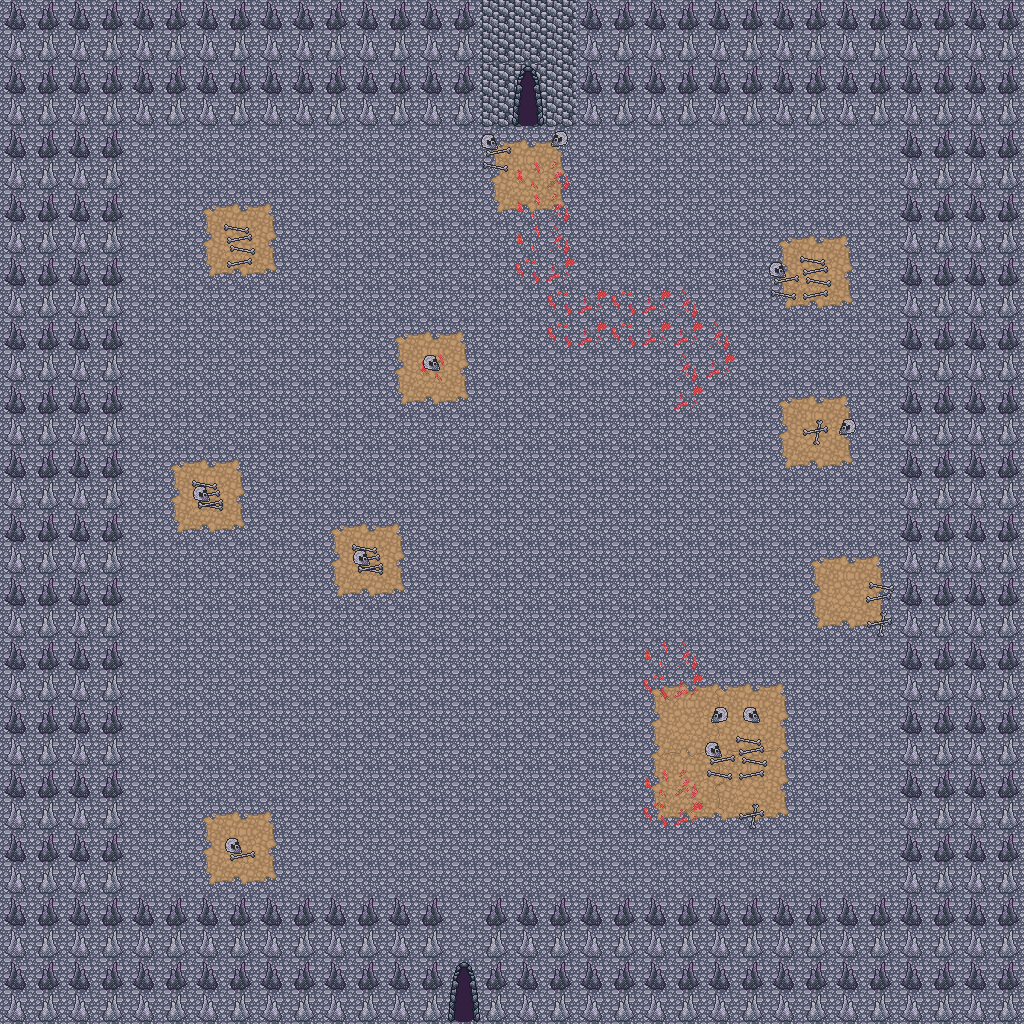
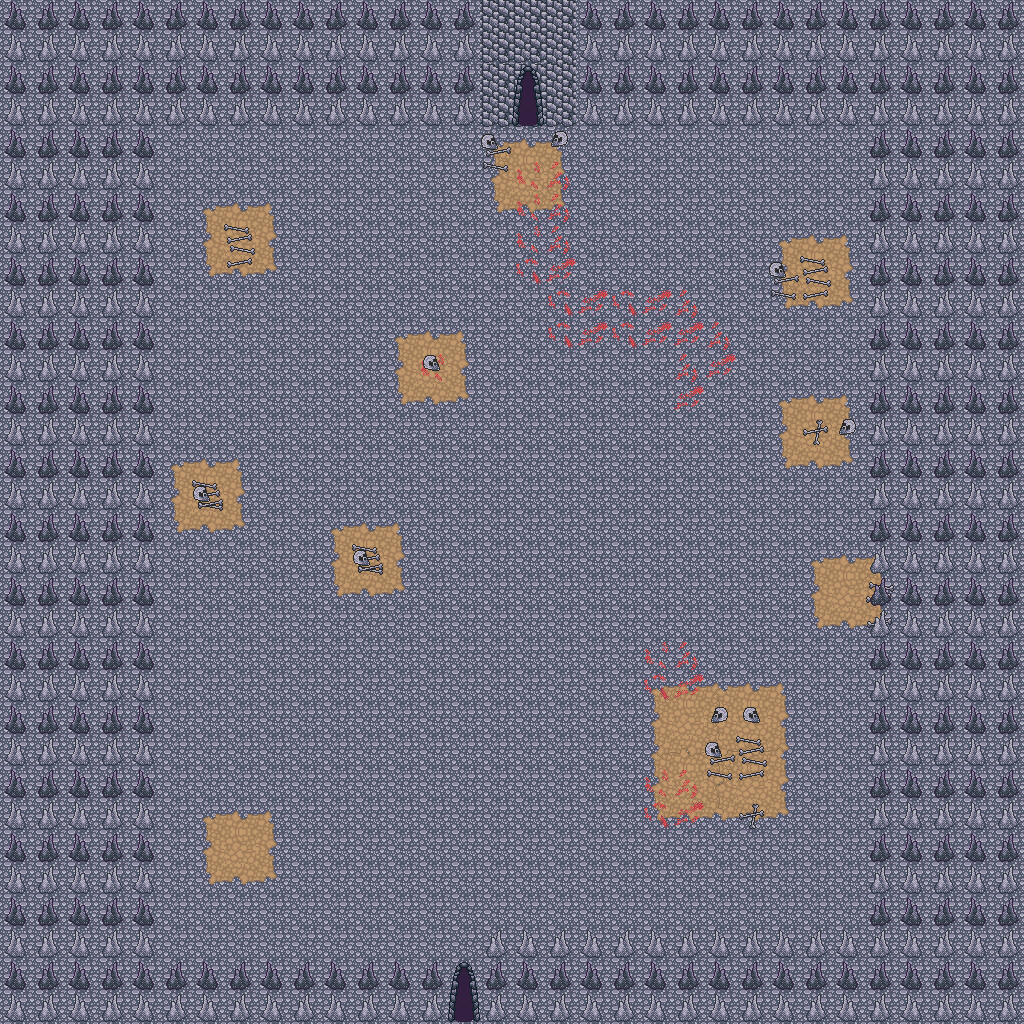
add 2nd exit to cave which results endgame

diff --git a/src/main.cpp b/src/main.cpp
@@ -141,6 +141,7 @@ int main()
 	bool isInCave{};
 	bool isOutsideCave{};
 	bool hasFlashlight{};
+	bool isEndGame{};
 	// used to spawn the monster at some point
 	bool isMonsterOut{};
 	// Positions of the buildings where player can enter
@@ -576,7 +577,7 @@ int main()
 				{
 					isOutsideCave = false;
 					isInCave = true;
-					hero.setWorldPos(1055.f,27.f);
+					hero.setWorldPos(1055.f, 27.f);
 				}
 			}
 			if (hero.getWorldPos().x < 1180 && hero.getWorldPos().x > 1050 &&
@@ -606,28 +607,45 @@ int main()
 				DrawTextureEx(maps[10], mapPos, 0.0, 3.f, WHITE);
 			}
 			if (hero.getWorldPos().y < 5 || hero.getWorldPos().y > 2400 ||
-				hero.getWorldPos().x < 0 || hero.getWorldPos().x > 2065 ||
-				hero.getWorldPos().y > 2190 && hero.getWorldPos().x < 1000 ||
-				hero.getWorldPos().y > 2190 && hero.getWorldPos().x > 1780
-				)
+				hero.getWorldPos().x < 0 || hero.getWorldPos().x > 2065)
 			{
 				hero.undoMovement();
 			}
-			if (hero.getWorldPos().y < 25 && hero.getWorldPos().x > 1050 && hero.getWorldPos().x < 1100){
-				if(hasFlashlight){
+			if (hero.getWorldPos().y < 25 && hero.getWorldPos().x > 1050 && hero.getWorldPos().x < 1100)
+			{
+				if (hasFlashlight)
+				{
 					conversation("Let's get out from here", hero.getScreenPos().x, hero.getScreenPos().y);
 				}
-				else {
+				else
+				{
 					conversation("I can't see anything! I'd a need a flashlight or something!", hero.getScreenPos().x, hero.getScreenPos().y);
 				}
-				if(IsKeyPressed(KEY_E)){
+				if (IsKeyPressed(KEY_E))
+				{
 					isInCave = false;
 					isOutsideCave = true;
 					hero.setWorldPos(650.f, 435.f);
 				}
-
+			}
+			if (hero.getWorldPos().y > 2360 && hero.getWorldPos().x > 830 && hero.getWorldPos().x < 899){
+				conversation("An exit!!!", hero.getScreenPos().x, hero.getScreenPos().y);
+				if(IsKeyPressed(KEY_E)){
+					isInCave = false;
+					isEndGame = true;
+				}
 			}
 			hero.tick(GetFrameTime());
+		}
+		else {
+			DrawText("You escaped!!!", 250, 250, 20, RED);
+			DrawText("Press E to return!!!", 250, 350, 20, RED);
+			if(IsKeyPressed(KEY_E)){
+				isEndGame = false;
+				isGameStart = true;
+				hero.setWorldPos(400.f, 100.f);
+			}
+
 		}
 
 		DrawText(TextFormat("Time %.2f", time), 50, 50, 20, RED);
